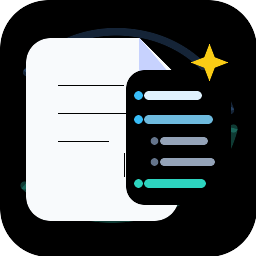
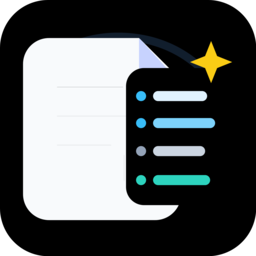
Release 0.0.9

diff --git a/CHANGELOG.md b/CHANGELOG.md
@@ -1,5 +1,10 @@
 # Changelog
 
+## 0.0.9
+
+- Updated the Marketplace icon with transparent corners and sharper small-size rendering.
+- Removed unused screenshot SVG source files from packaged resources.
+
 ## 0.0.8
 
 - Removed development and local VSIX packaging instructions from the user-facing README.
